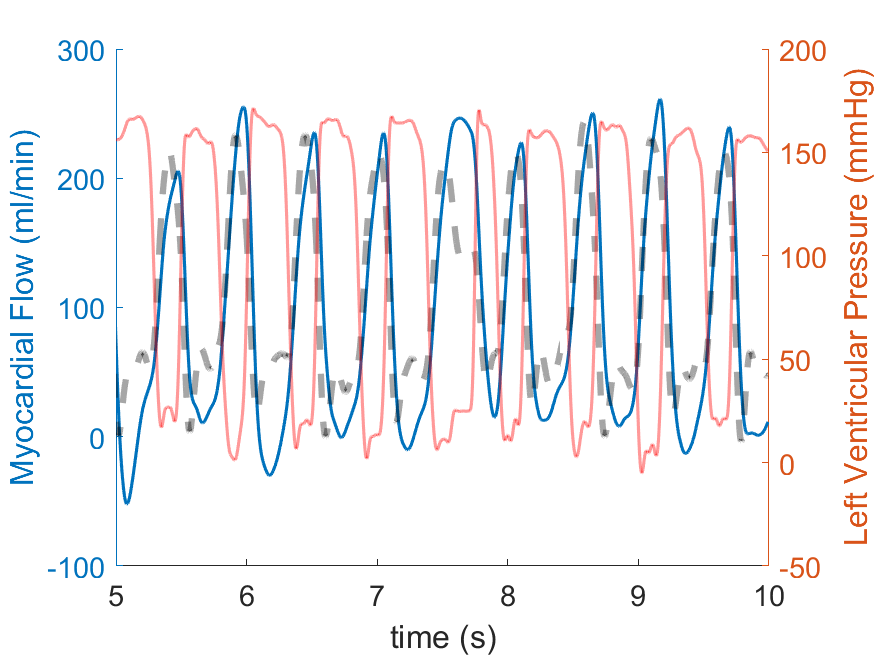
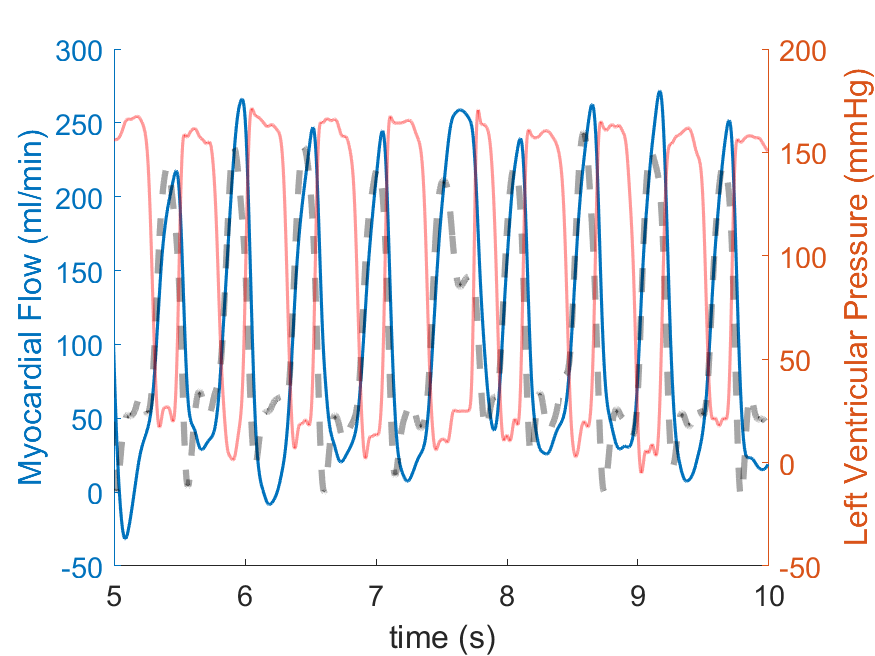
10-parameter parameter estimation with both exercise and rest included in the objective function.

diff --git a/SRC_RepVessel/Calculations_Exercise.m b/SRC_RepVessel/Calculations_Exercise.m
@@ -6,7 +6,7 @@ function Case = Calculations_Exercise(Case, state)
 
 Case.HR = 1/Case.T*60;
 t_final = Case.Results.t(end);
-t_idx = Case.Results.t>t_final-8*Case.T & Case.Results.t<=t_final;
+t_idx = Case.Results.t>t_final-4*Case.T & Case.Results.t<=t_final;
 Dt = diff(Case.Results.t);
 T = Case.T;
 t = Case.Results.t(t_idx);
@@ -22,36 +22,36 @@ Case.epi.Pim = Case.PLV1*1.2*0.167;
 Qendo = Case.Results.Q13(t_idx);
 Pendo = Case.Results.P13(t_idx);
 
-Case.endo.RA = sum(((Ppa - Pendo)./Qendo).*Dt(t_idx(2:end)))/(8*T);
+Case.endo.RA = sum(((Ppa - Pendo)./Qendo).*Dt(t_idx(2:end)))/(4*T);
 Case.endo.Pl = (Ppa + Pendo)/2;
-Case.endo.Ptm = sum((Case.endo.Pl -   Case.endo.Pim).*Dt(t_idx(2:end)))/(8*T);
-Case.endo.PC =   sum((Pendo -   Case.endo.Pim).*Dt(t_idx(2:end)))/(8*T);
-Case.endo.Q = sum((Qendo).*Dt(t_idx(2:end)))/(8*T);
-Case.endo.Pc = sum((Pendo).*Dt(t_idx(2:end)))/(8*T);
+Case.endo.Ptm = sum((Case.endo.Pl -   Case.endo.Pim).*Dt(t_idx(2:end)))/(4*T);
+Case.endo.PC =   sum((Pendo -   Case.endo.Pim).*Dt(t_idx(2:end)))/(4*T);
+Case.endo.Q = sum((Qendo).*Dt(t_idx(2:end)))/(4*T);
+Case.endo.Pc = sum((Pendo).*Dt(t_idx(2:end)))/(4*T);
 
 %% Mid
 
 Qmid = Case.Results.Q12(t_idx);
 Pmid = Case.Results.P12(t_idx);
 
-Case.mid.RA = sum(((Ppa - Pmid)./Qmid).*Dt(t_idx(2:end)))/(8*T);
+Case.mid.RA = sum(((Ppa - Pmid)./Qmid).*Dt(t_idx(2:end)))/(4*T);
 Case.mid.Pl = (Ppa + Pmid)/2;
-Case.mid.Ptm = sum((Case.mid.Pl -   Case.mid.Pim).*Dt(t_idx(2:end)))/(8*T);
-Case.mid.PC =   sum((Pmid -   Case.mid.Pim).*Dt(t_idx(2:end)))/(8*T);
-Case.mid.Q = sum((Qmid).*Dt(t_idx(2:end)))/(8*T);
-Case.mid.Pc = sum((Pmid).*Dt(t_idx(2:end)))/(8*T);
+Case.mid.Ptm = sum((Case.mid.Pl -   Case.mid.Pim).*Dt(t_idx(2:end)))/(4*T);
+Case.mid.PC =   sum((Pmid -   Case.mid.Pim).*Dt(t_idx(2:end)))/(4*T);
+Case.mid.Q = sum((Qmid).*Dt(t_idx(2:end)))/(4*T);
+Case.mid.Pc = sum((Pmid).*Dt(t_idx(2:end)))/(4*T);
 
 %% Subepi
 
 Qepi = Case.Results.Q11(t_idx);
 Pepi = Case.Results.P11(t_idx);
 
-Case.epi.RA = sum(((Ppa - Pepi)./Qepi).*Dt(t_idx(2:end)))/(8*T);
+Case.epi.RA = sum(((Ppa - Pepi)./Qepi).*Dt(t_idx(2:end)))/(4*T);
 Case.epi.Pl = (Ppa + Pepi)/2;
-Case.epi.Ptm = sum((Case.epi.Pl -   Case.epi.Pim).*Dt(t_idx(2:end)))/(8*T);
-Case.epi.PC =   sum((Pepi -   Case.epi.Pim).*Dt(t_idx(2:end)))/(8*T);
-Case.epi.Q = sum((Qepi).*Dt(t_idx(2:end)))/(8*T);
-Case.epi.Pc = sum((Pepi).*Dt(t_idx(2:end)))/(8*T);
+Case.epi.Ptm = sum((Case.epi.Pl -   Case.epi.Pim).*Dt(t_idx(2:end)))/(4*T);
+Case.epi.PC =   sum((Pepi -   Case.epi.Pim).*Dt(t_idx(2:end)))/(4*T);
+Case.epi.Q = sum((Qepi).*Dt(t_idx(2:end)))/(4*T);
+Case.epi.Pc = sum((Pepi).*Dt(t_idx(2:end)))/(4*T);
 
 
 %% Eqiovalent diameter calculation
@@ -65,7 +65,7 @@ Case.mid.D = 100*(Case.Rn./Case.mid.RA).^(1/4);
 Case.epi.D = 100*(Case.Rn./Case.epi.RA).^(1/4);
 %% Total 
 QPA = Case.Results.Q_PA(t_idx);
-Case.QPA = sum(QPA.*Dt(t_idx(2:end)))/(8*T);
+Case.QPA = sum(QPA.*Dt(t_idx(2:end)))/(4*T);
 
 Case.tinp = linspace(t(1),t(end),300);
 Case.Qpa = interp1(t,Case.Results.Q_PA(t_idx),Case.tinp');

diff --git a/ConsciousPig7params/ComplianceResistance.m b/ConsciousPig7params/ComplianceResistance.m
@@ -8,7 +8,7 @@ C_R12 = Rn*(Case.mid.D/100)^(-4);
 C_R13 = Rn*(Case.endo.D/100)^(-4);
 
 t_final = Case.Results.t(end);
-t_idx = Case.Results.t>t_final-8*Case.T & Case.Results.t<=t_final;
+t_idx = Case.Results.t>t_final-4*Case.T & Case.Results.t<=t_final;
 t = Case.Results.t(t_idx);
 Case.tinp = linspace(t(1),t(end),300);
 Case.Qpa = interp1(t,Case.Results.Q_PA(t_idx),Case.tinp');

diff --git a/Pig1_tan_time2/TanModelHR_obj.m b/Pig1_tan_time2/TanModelHR_obj.m
@@ -68,5 +68,5 @@ Dc = [DcC, DcA, DcD];
 if sum(isnan(DMod)) || sum(convC+convA+convD)|| sum([sum((Dp-DExp)<0),sum((DExp-Dc)<0)])
     ER = 1000;
 else
-    ER = norm((DExp - DMod)./DExp); % + 1000*(x(2)<x(3));
+    ER = norm((DExp - DMod)); % + 1000*(x(2)<x(3));
 end

diff --git a/Pig4_tan_time2/TanModelHR_obj.m b/Pig4_tan_time2/TanModelHR_obj.m
@@ -68,5 +68,5 @@ Dc = [DcC, DcA, DcD];
 if sum(isnan(DMod)) || sum(convC+convA+convD)|| sum([sum((Dp-DExp)<0),sum((DExp-Dc)<0)])
     ER = 1000;
 else
-    ER = norm((DExp - DMod)./DExp); % + 1000*(x(2)<x(3));
+    ER = norm((DExp - DMod)); % + 1000*(x(2)<x(3));
 end

diff --git a/ConsciousPig7params/ExerciseModelSensitivity.m b/ConsciousPig7params/ExerciseModelSensitivity.m
@@ -132,4 +132,4 @@ xlim([Rest.tinp(1) Rest.tinp(end)]);
 ylabel('Myocardial Flow (ml/min)');
 xlabel('time (s)');
 
-adjust_pars = adjustables( find( [Sens1+Sens2'] >0.4) );
+adjust_pars = adjustables( find( [Sens1+Sens2'] >0.05) );
